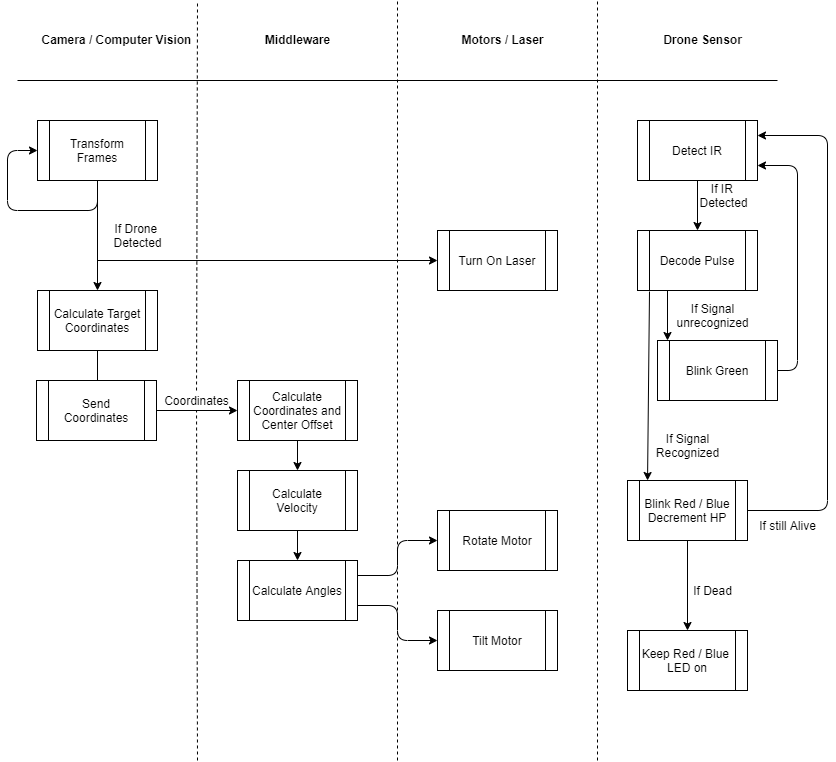
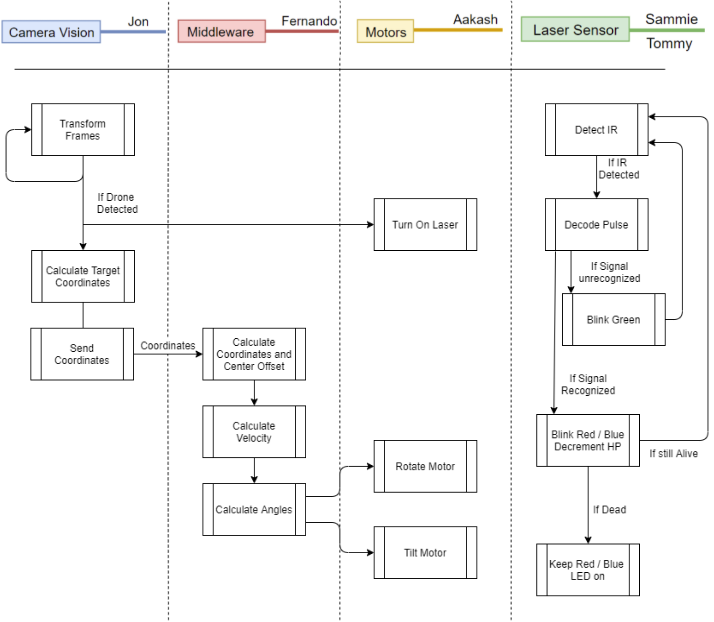
Added Middleware and Simulation descriptions

diff --git a/README.md b/README.md
@@ -1,21 +1,26 @@
 # ADLTS
 The Automated Drone Laser Tracking System (ADLTS) will be a fully automated system that integrates different technologies, hardware, and firmware in order to detect and track a threat in motion. We have decided to use a flying drone as the threat, which our system will target and aim a laser at as a countermeasure. While there are many different methods of detection, our system will be using a camera and computer vision algorithm in order to detect, track, and predict the movement of the threat. Using these coordinates and vector data, our 2-degrees of freedom turret motor system will smoothly guide our laser onto the target drone’s sensor.
 
-![alt text](https://raw.githubusercontent.com/trevinofernando/ADLTS/master/Readme_Images/ProjectBreakDown.png)
+<img src="https://raw.githubusercontent.com/trevinofernando/ADLTS/master/Readme_Images/ProjectBreakDown.png" width="450" />
+
 ## Computer Vision
 TODO
 ## Middleware
-TODO
+The “Middleware” is the connecting bridge between the camera and motors. It  translates pixel coordinates from an image (given by the detection system) to angles for the motors to rotate to point at the target. The Middleware will also estimate the velocity of the target as well as reduce noise from the input in order to achieve better tracking.
 
 ## Simulation
-TODO
+One of the first problem we faced was that because the Middleware is dependant in the other components , we can't test it without a detection system giving it input and the motor to confirm that the angles are correct. And to solve that problem, a simulation was created as a testing environment and to speed development.
+
+Here is a side by side comparison of the main Middleware feature "Velocity Prediction":
+### **Without** Velocity Prediction
+![alt text](https://raw.githubusercontent.com/trevinofernando/ADLTS/master/Readme_Images/Simulation_NoVelocity.gif)
+
+
+### **With** Velocity Prediction
+![alt text](https://raw.githubusercontent.com/trevinofernando/ADLTS/master/Readme_Images/Simulation_WithVelocity.gif)
 ## Motors Controls
 TODO
 
 ## Laser Sensor
 TODO
 
-A Unity Simulation for the Automated Drone Laser Tracking System (ADLTS). The simulation is to run experiments for my senior design project. I want this part to advance in parallel with the rest of the project since COVID-19 won't allow my team to meet any time soon.
-
-![alt text](https://raw.githubusercontent.com/trevinofernando/ADLTS/master/Readme_Images/Simulation_NoVelocity.gif)
-![alt text](https://raw.githubusercontent.com/trevinofernando/ADLTS/master/Readme_Images/Simulation_WithVelocity.gif)
